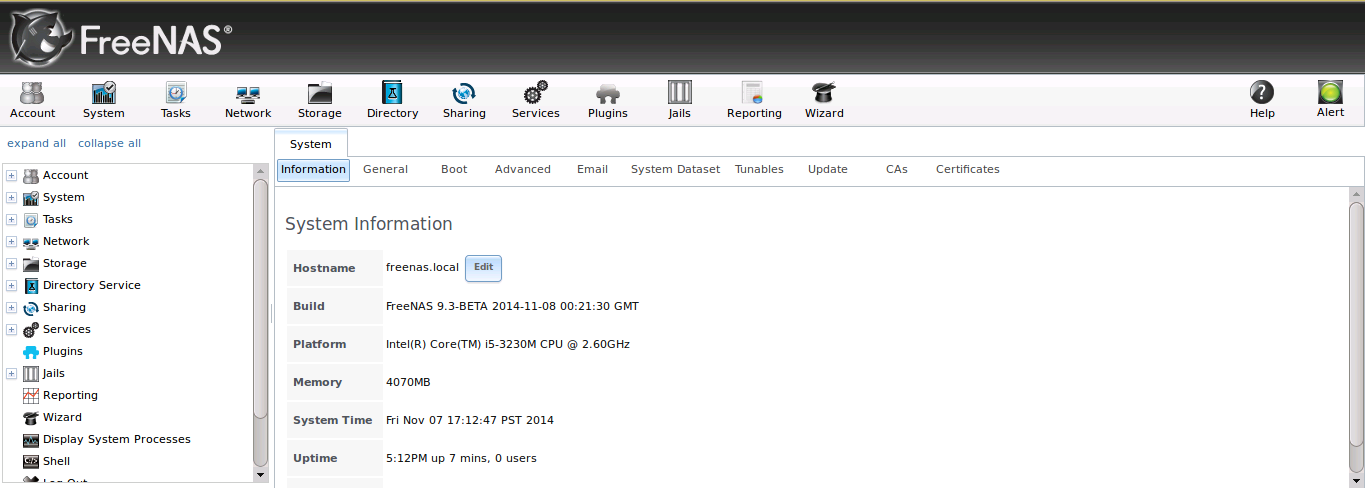
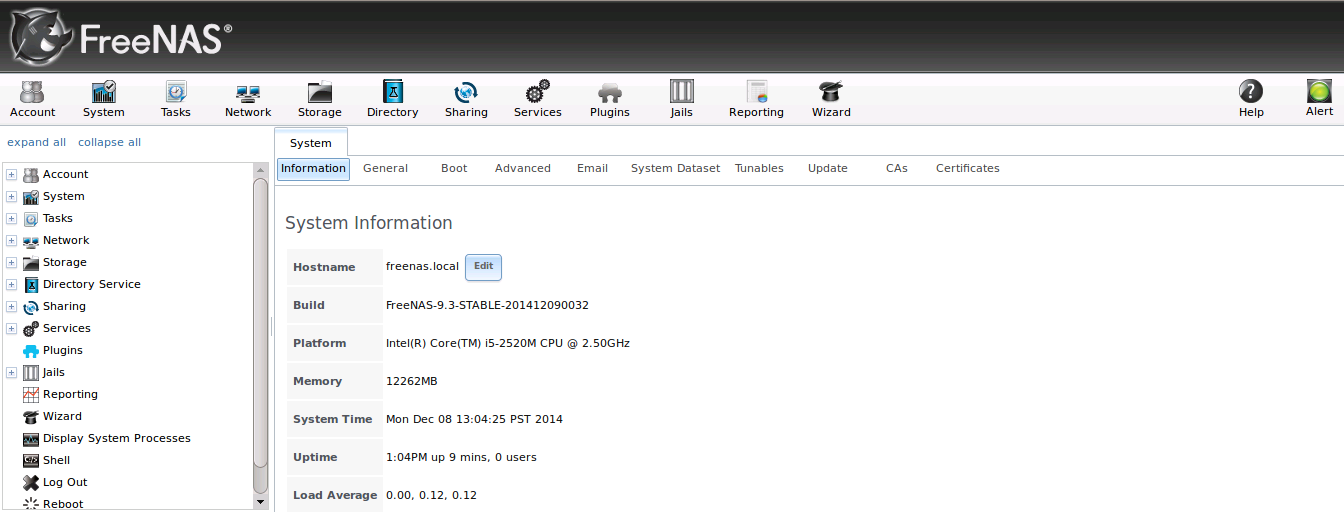
Update images for release.

Changed region(s): [[0.0, 0.0, 1.0, 1.0], [0.9688, 0.3689, 1.0, 1.0]]

diff --git a/docs/userguide/freenas_quick.rst b/docs/userguide/freenas_quick.rst
@@ -86,8 +86,8 @@ system. You should be prompted to input the password for the root user, as seen 
 |login.png|
 
 .. |login.png| image:: images/login.png
-    :width: 5.8in
-    :height: 3.1in
+    :width: 5.2in
+    :height: 3.8in
 
 Enter the password created during the installation. You should then see the administrative GUI as shown in the example in Figure 3c.
 
@@ -96,8 +96,8 @@ Enter the password created during the installation. You should then see the admi
 |initial.png|
 
 .. |initial.png| image:: images/initial.png
-    :width: 12.2in
-    :height: 4.3in
+    :width: 12.0in
+    :height: 4.5in
 
 If you are unable to access the IP address from a browser, check the following:
 
